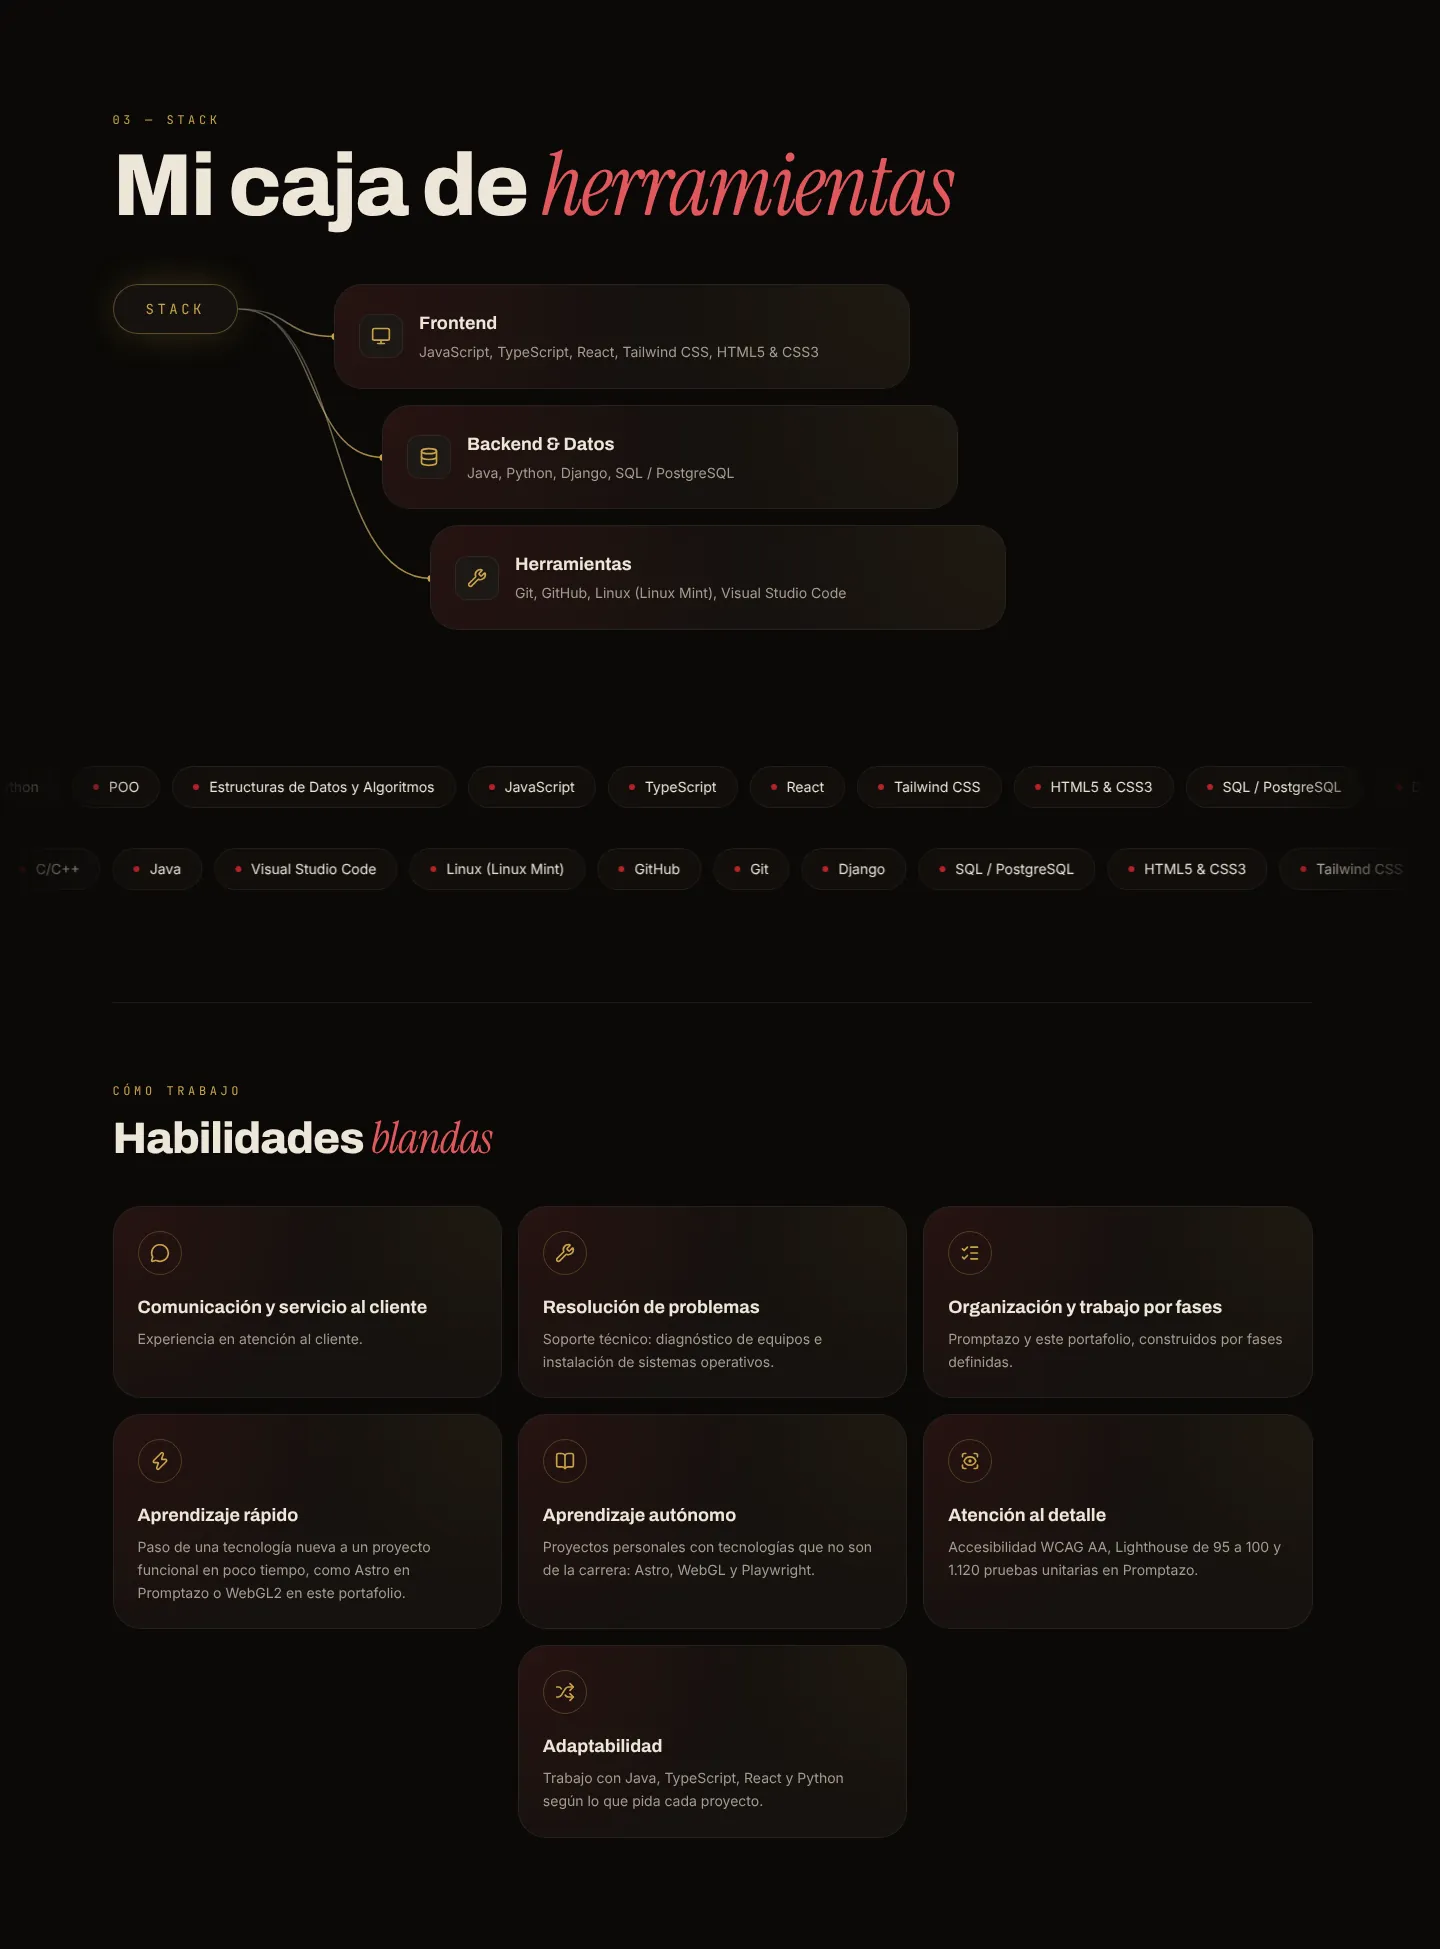
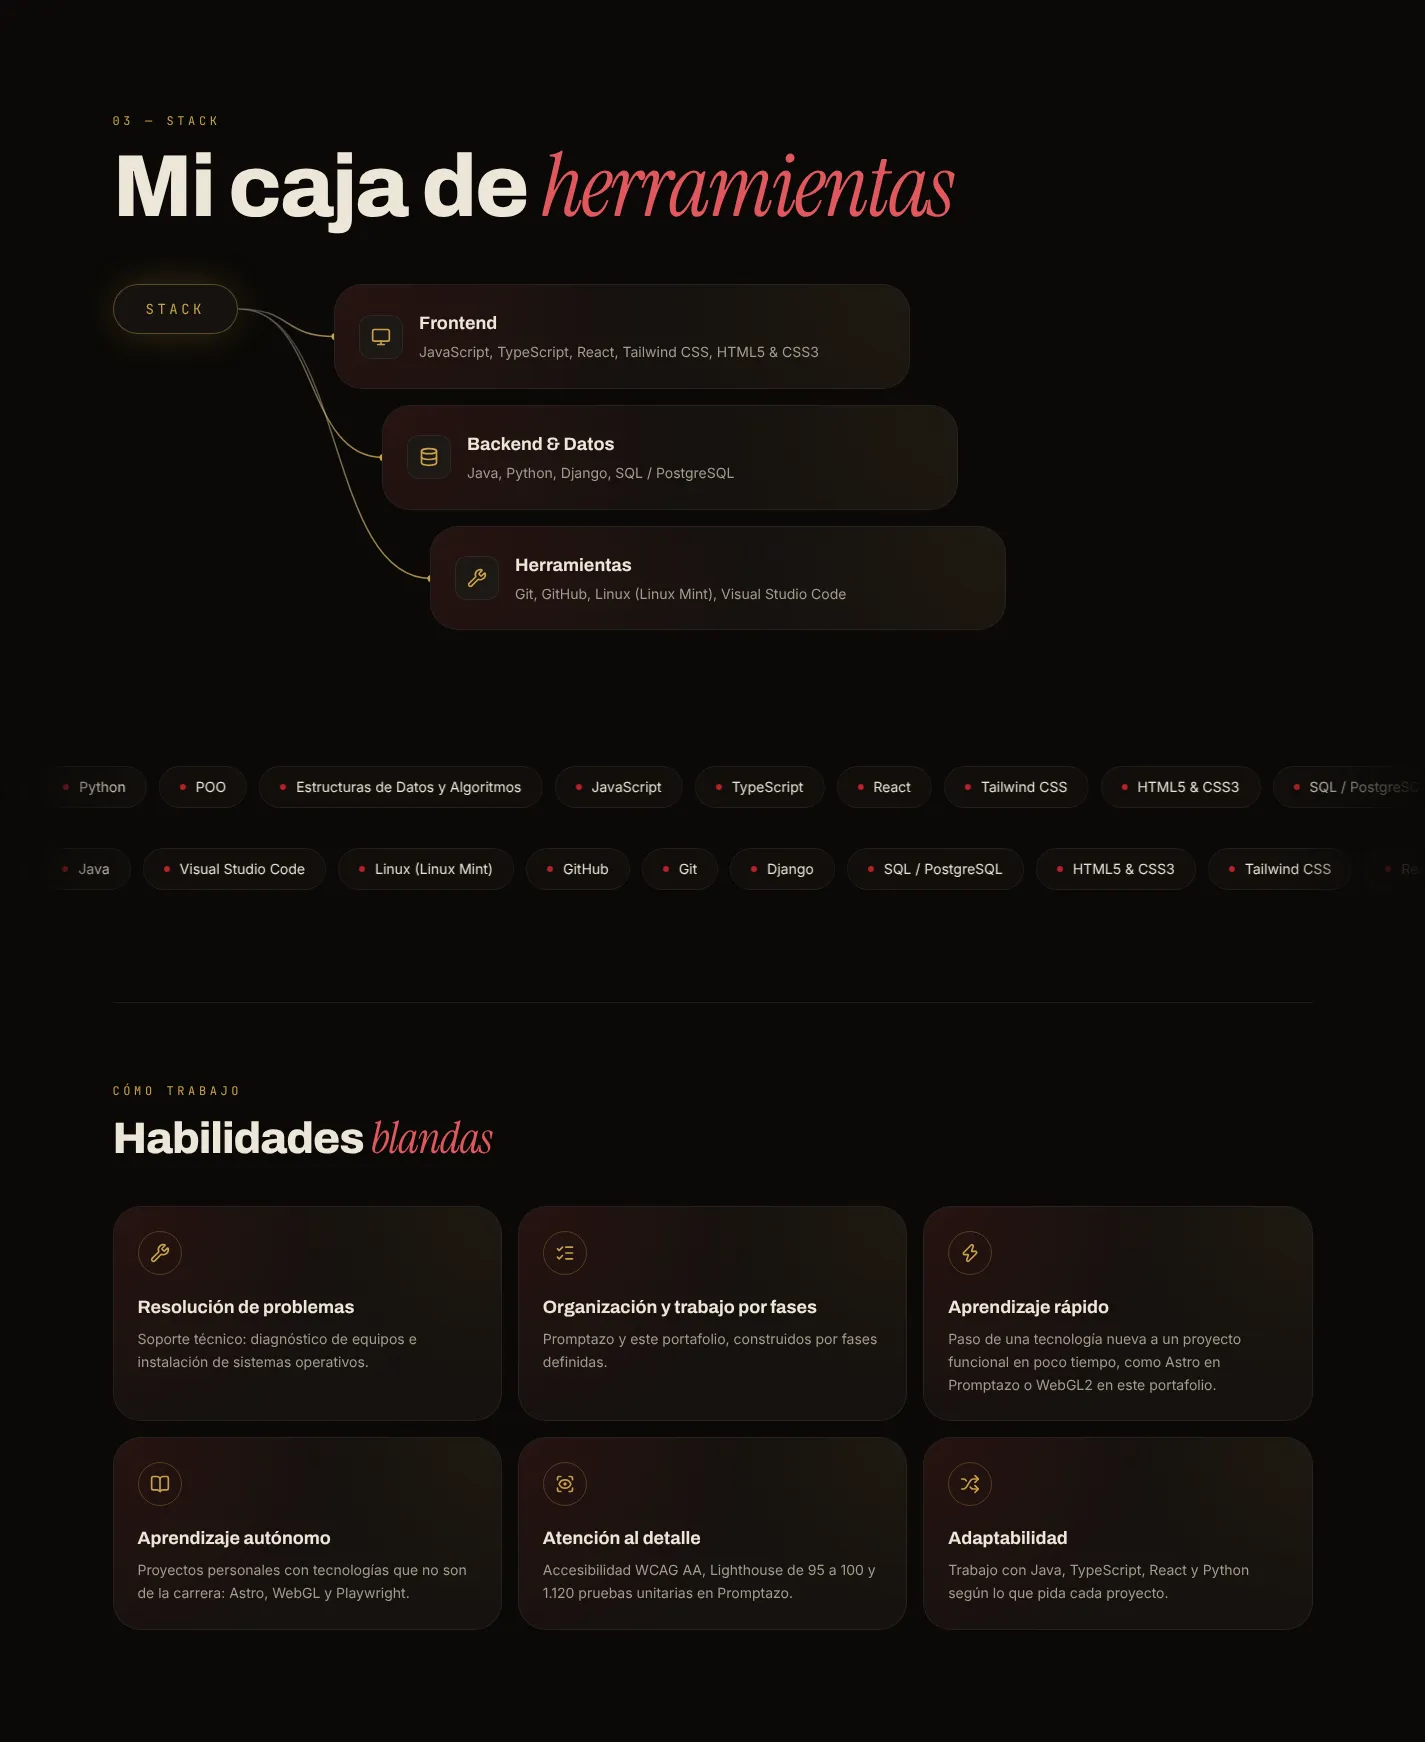
Se eliminó la habilidad blanda de servicio al cliente y se ajustó la grilla (#8)

diff --git a/src/components/sections/Skills.tsx b/src/components/sections/Skills.tsx
@@ -269,10 +269,7 @@ function MarqueeRow({ skills, reverse = false, duration, rowId }: MarqueeRowProp
   )
 }
 
-// Última card de la grilla (7 = impar): ocupa el ancho restante en tablet y se centra en desktop.
-const LAST_CARD = 'md:col-span-2 lg:col-span-1 lg:col-start-2'
-
-function SoftSkillCard({ skill, index, last }: { skill: SoftSkill; index: number; last: boolean }) {
+function SoftSkillCard({ skill, index }: { skill: SoftSkill; index: number }) {
   const reduce = useReducedMotion()
   return (
     <motion.li
@@ -280,7 +277,7 @@ function SoftSkillCard({ skill, index, last }: { skill: SoftSkill; index: number
       whileInView={{ opacity: 1, y: 0 }}
       viewport={{ once: true, amount: 0.3 }}
       transition={{ duration: 0.7, ease: EASE, delay: (index % 3) * 0.1 }}
-      className={`glow-corner group relative overflow-hidden rounded-card border border-border bg-surface p-6 transition-[border-color,box-shadow] duration-300 hover:border-gold/40 hover:shadow-[0_0_40px_-16px_rgb(200_162_74/0.45)] ${last ? LAST_CARD : ''}`}
+      className="glow-corner group relative overflow-hidden rounded-card border border-border bg-surface p-6 transition-[border-color,box-shadow] duration-300 hover:border-gold/40 hover:shadow-[0_0_40px_-16px_rgb(200_162_74/0.45)]"
     >
       <span className="flex size-11 items-center justify-center rounded-full border border-gold/30 text-gold transition-transform duration-300 ease-out group-hover:rotate-6 group-hover:scale-110 motion-reduce:transform-none">
         <Icon name={skill.icon} size={20} aria-hidden="true" />
@@ -321,7 +318,7 @@ function SoftSkills() {
       </motion.header>
       <ul aria-labelledby={titleId} className="grid gap-4 md:grid-cols-2 lg:grid-cols-3">
         {softSkills.map((s, i) => (
-          <SoftSkillCard key={s.id} skill={s} index={i} last={i === softSkills.length - 1 && softSkills.length % 2 === 1} />
+          <SoftSkillCard key={s.id} skill={s} index={i} />
         ))}
       </ul>
     </div>

diff --git a/src/data/portfolioData.ts b/src/data/portfolioData.ts
@@ -86,12 +86,6 @@ export const portfolioData: PortfolioData = {
 
   softSkills: [
     {
-      id: 'comunicacion',
-      name: 'Comunicación y servicio al cliente',
-      icon: 'MessageCircle',
-      evidence: 'Experiencia en atención al cliente.',
-    },
-    {
       id: 'problemas',
       name: 'Resolución de problemas',
       icon: 'Wrench',

diff --git a/src/components/ui/Icon.tsx b/src/components/ui/Icon.tsx
@@ -18,7 +18,6 @@ import {
   Wrench,
   BookOpen,
   ListChecks,
-  MessageCircle,
   ScanEye,
   Shuffle,
   Zap,
@@ -73,7 +72,6 @@ const icons: Record<string, LucideIcon> = {
   Play,
   BookOpen,
   ListChecks,
-  MessageCircle,
   ScanEye,
   Shuffle,
   Zap,
